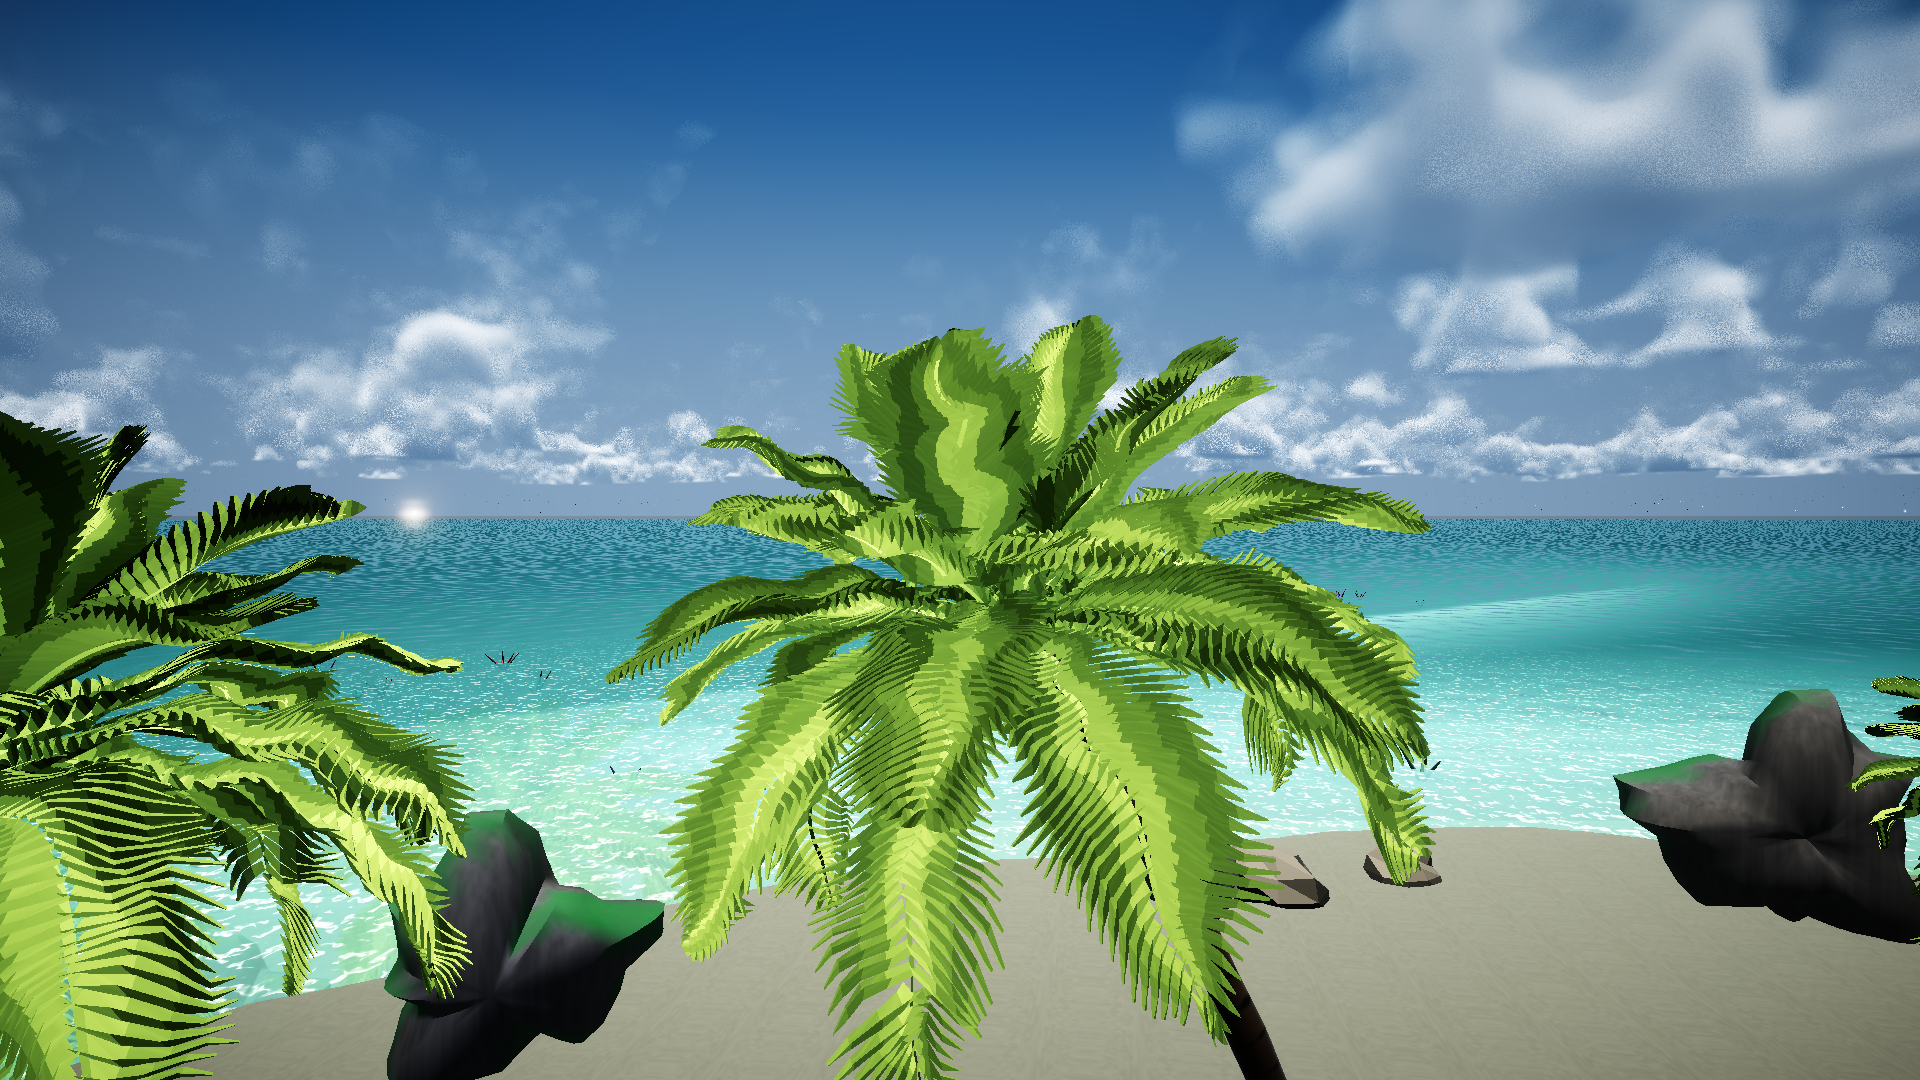
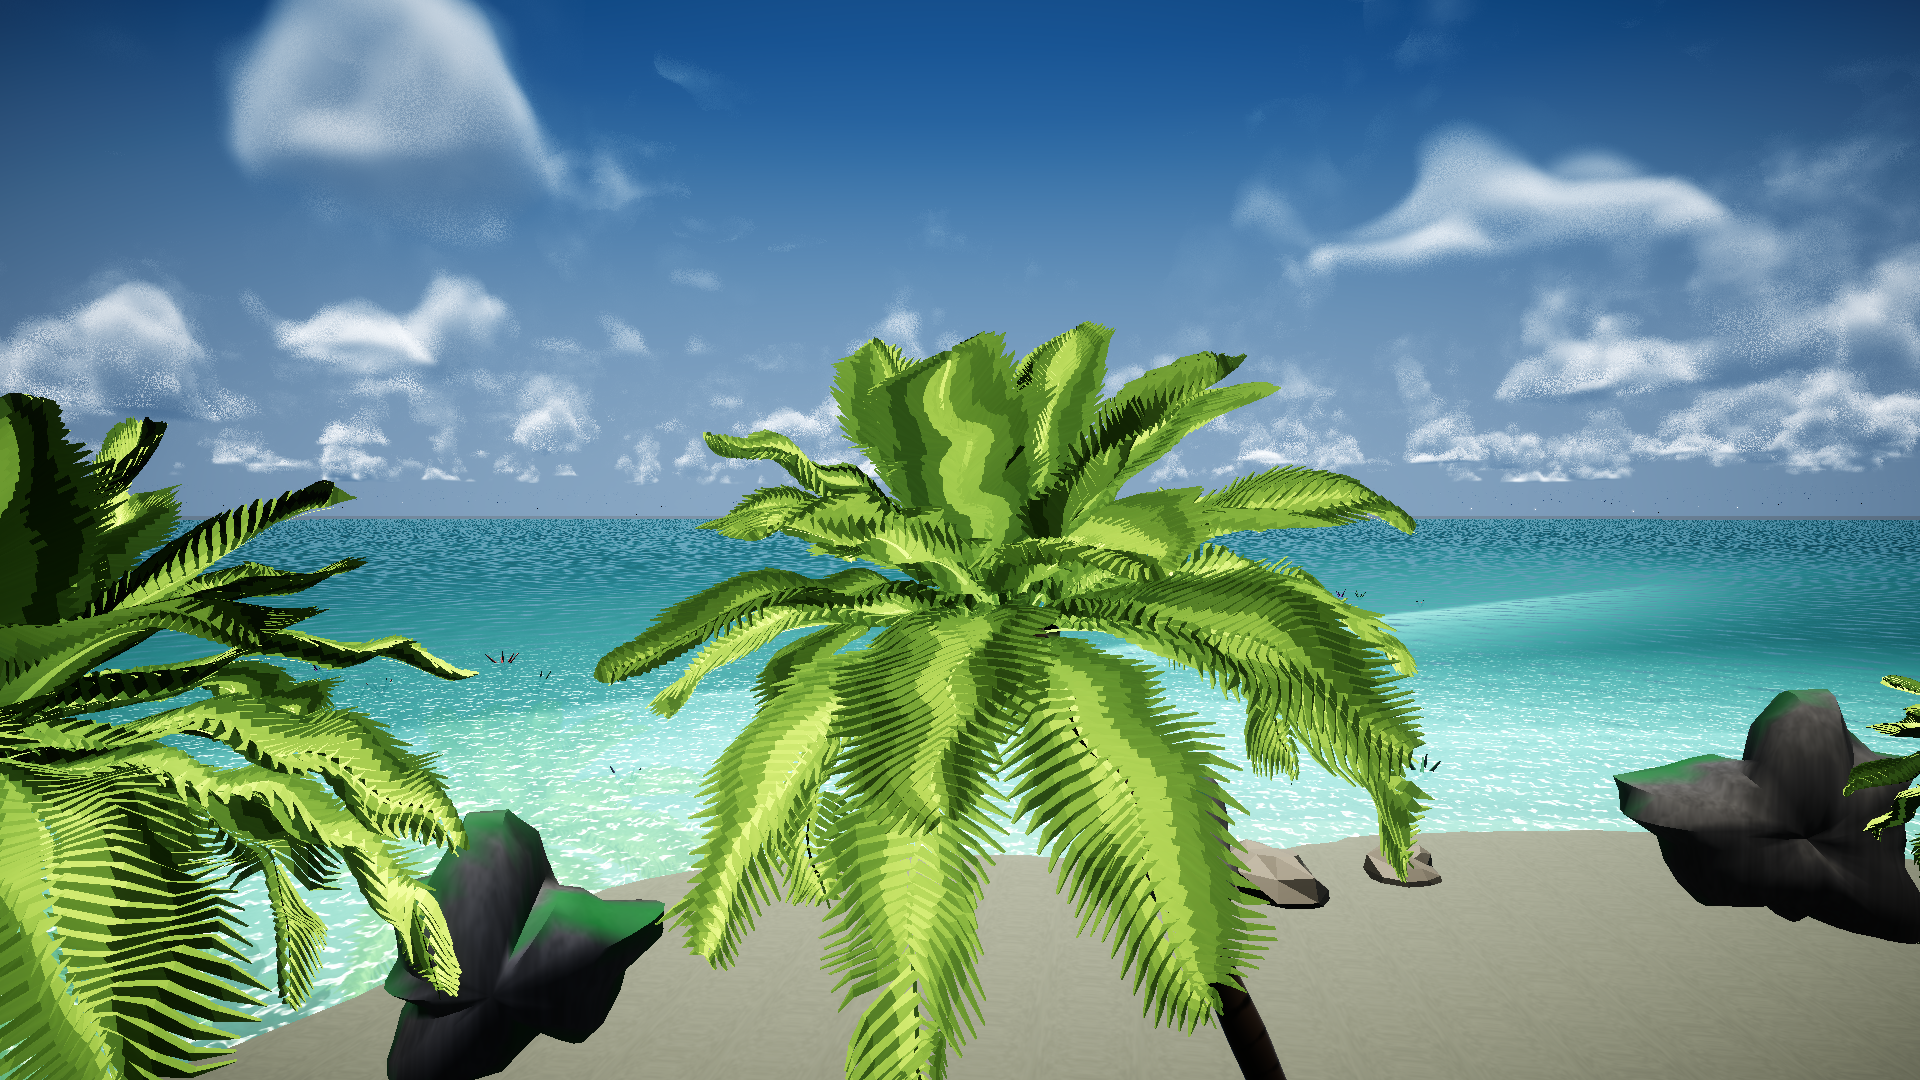
feat(R88): 叶脉贴图 512->1024(近看不糊) + 叶脉对比减半(避免斑马纹); AGENTS 补 R86 里程碑. ①棕榈贴图 512->1024: 近看更清晰 ②但1024下原叶脉幅度读成斑马纹 => rib/vein/mott 幅度减半(0.06/0.05/0.10 -> 0.030/0.025/0.055),  clamp 下限 0.86->0.90 ③结论: 棕榈的'塑料感/条纹'主要来自**几何**(叶片卡片), 贴图层面已到顶 ④AGENTS 补 R86 域边界修复里程碑(台阶比1.80->0.38) ⑤Islet 128.3/51.4/123.0/近黑3.72/

diff --git a/Assets/Editor/FrondTextureGen.cs b/Assets/Editor/FrondTextureGen.cs
@@ -18,7 +18,7 @@ namespace WaterProject.EditorTools
 {
     public static class FrondTextureGen
     {
-        const int W = 512, H = 512;
+        const int W = 1024, H = 1024;   // R88: 512->1024（近看 512 糊成塑料）
         const string OutDir  = "Assets/Art/Textures/Islet";
         const string OutPath = OutDir + "/Islet_FrondDetail_Proc.png";
 
@@ -69,8 +69,8 @@ namespace WaterProject.EditorTools
                     float mott = Fbm(u * 4f, v * 4f) * 0.62f + Fbm(u * 13f, v * 13f) * 0.38f;
 
                     // 只做**乘法变暗**（≤1.0）：超过 1 会被 8 位贴图裁掉，反而制造硬斑
-                    float d = 0.86f + 0.10f * mott + 0.06f * rib + 0.05f * vein;
-                    d = Mathf.Clamp(d, 0.86f, 1.0f);
+                    float d = 0.90f + 0.055f * mott + 0.030f * rib + 0.025f * vein;   // R88: 1024 下原幅度读成斑马纹
+                    d = Mathf.Clamp(d, 0.90f, 1.0f);
                     byte c = (byte)Mathf.Clamp(Mathf.RoundToInt(d * 255f), 0, 255);
                     px[y * W + x] = new Color32(c, c, c, 255);
                 }

diff --git a/AGENTS.md b/AGENTS.md
@@ -120,7 +120,7 @@ python Tools/Video/segment_report.py --start 3000 --end 3450 --region sky
 | **R45** | **一轮三小件**（R41 B 组收尾） | ✅ ①沙滩颗粒复用 `Style/207`（7/10"颗粒感明显"）②云缘细节侵蚀 0.22→0.38（7/10"边缘碎化丝絮感"）③瀑布底水雾粒子（7→8/10，下轮可加密 rate 55→90）；**落空记档**：Ocean 圆润岩 `swapped=0`——OceanScene **没有**独立岩石渲染器（审计看到的"多面体岩"是地形/崖一体件）⇒ 圆润化=重建崖网格，归下一轮大件 |
 | **R46** | **口径错位复核**（用户指令"错位需要先修改"） | ✅ 查原片帧确认参考 S0/f1500 都是**俯视水面**（推翻 `Style/207` 注释里的"天空55%低角度"）→ 新增 6 条可逆机位档 `Tools/R46/90~92b`；**同口径重拍后 Islet/FFT 分数不回升**（Islet SSIM 0.406、对比 50.8 vs 参考 51.2 已对齐；FFT SSIM **0.017** 结构不重合）⇒ **R41 的"错位占主因"被推翻，掉分=真内容缺失**；顺带暴露 4 个平视看不见的硬缺陷：①Islet 水面域边界黑楔 ②**全画面水面 sparkle 白噪点（全局）** ③沙洲俯视呈"重复扇贝纹"（R45 沙粒反噬）④FFT 中心竖缝+横向刷痕。另：R42~R45 四份薄报告已按纪律补齐四件套（含"口径缺口"自述） |
 | **R47** | **四件合一**（用户指令：4 个缺陷融成一步） | ✅ ①**水面白点 −64.3%**（同会话 A/B：26.75→9.55/1000px，亮度对比各 −1%）；定位过程**先证伪 Sparkle**（全关逐位相同）→ 逐个排除 → 真凶=`Water_Lagoon` 碎闪 `_GlitterPow=420` 亚像素走样 → 修法=**高光 LOD**（远处 420→80 加宽+距离淡出 18/75）②`Beach_Sand` 加沙粒距离 LOD（细粒 15m 外归零+25cm 粗斑驳），但 **Islet 沙洲是 Terrain 图层贴图，不走该 shader ⇒ 本场景未覆盖** ③**FFT 竖缝修掉**：`FFTOcean.compute` GradJacob 用 clamp 边界 → 改环绕差分，尖峰 4.91→**2.00** ④礁石 26+珊瑚 14 已生成可见（**IsletScene 无碰撞体→射线打点全落空，改用 Terrain.SampleHeight**），但石头是黑点、珊瑚是彩点，**未到参考形态**；⚠ 顺带发现白点消失后泻湖**露出一条竖缝**（5.29@443） |
-| **R60–R62** | **Ocean/Islet 观感修复 + 验收脚本** | ✅ ①Ocean 云量 0.34→0.05（1080p 下 0.34 是灰蓝硬块，比没云更脏）②Ocean 礁石 `_BaseColor` 0.085→0.26（原渲成纯黑洞，现出明暗分面，近黑 3.28%→2.89%）③**Ocean 天顶提亮**：改材质 `_ZenithColor` **无效**（DayNightCycle 每帧覆盖）→ 改**场景内曲线** skyZenith/skyHorizon 白天段 ×1.35：顶部15% 52→**81**、全画面 108→**131** ④Ocean 湿沙 `_WetColor` 0.15→0.17：近黑 3.47%→**0.70%** ⑤**新增 `Tools/verify/verify_scenes.ps1`**：六场景一键（开场景→Play→冻结→Seq/95 离屏采集→**校验 mtime 防旧帧**→量测→突变>35% 报警），基线存 `Tools/verify/baseline.json` ⑥六场景实测：Main105/Ocean132/Pond54/Pool190/Islet97/FFT127 ⑦遗留：Ocean 远处 `OceanHeadland_far` 是灰板（内容级）；Islet 默认机位那块黑崖=**地形背光**（改岩石材质无效，属构图选择）
+| **R86** | **域边界硬边修复（跟踪 10 轮）** | ✅ 真因=`IsletTerrain.RimFalloff=46f`（46m 内把地形从 −3 压到 −7.5，俯视只占几十像素 ⇒ 水深跳 4.5m）。改 **150f** + 重烘地形 → 锁线实测台阶比 **1.80 → 0.38**（目标 <0.8）。中途改成"平方衰减"退回 1.96 ⇒ **教训：边界过渡必须线性摊开足够长**。代价：`Islet_SandWet` 图层占比 96.8%（外圈海底偏湿沙色） || **R60–R62** | **Ocean/Islet 观感修复 + 验收脚本** | ✅ ①Ocean 云量 0.34→0.05（1080p 下 0.34 是灰蓝硬块，比没云更脏）②Ocean 礁石 `_BaseColor` 0.085→0.26（原渲成纯黑洞，现出明暗分面，近黑 3.28%→2.89%）③**Ocean 天顶提亮**：改材质 `_ZenithColor` **无效**（DayNightCycle 每帧覆盖）→ 改**场景内曲线** skyZenith/skyHorizon 白天段 ×1.35：顶部15% 52→**81**、全画面 108→**131** ④Ocean 湿沙 `_WetColor` 0.15→0.17：近黑 3.47%→**0.70%** ⑤**新增 `Tools/verify/verify_scenes.ps1`**：六场景一键（开场景→Play→冻结→Seq/95 离屏采集→**校验 mtime 防旧帧**→量测→突变>35% 报警），基线存 `Tools/verify/baseline.json` ⑥六场景实测：Main105/Ocean132/Pond54/Pool190/Islet97/FFT127 ⑦遗留：Ocean 远处 `OceanHeadland_far` 是灰板（内容级）；Islet 默认机位那块黑崖=**地形背光**（改岩石材质无效，属构图选择）
 | **R56–R59** | **场景画质 / 采集口径 / 域边界**（用户授权连续推进） | ✅ ①**画面"又脏又暗"根因=两个配置 bug**：Islet 调色档停在极暗档(曝光−1.09/对比41) + Ocean 相机 `renderPostProcessing=False`（调色档从没生效）；修完 Islet 亮度 62→100、Ocean 108→118 ②**采集口径**：`Ocean/85` 在失焦时静默失败、切场景后常返回**旧帧**（MD5 不同但像素统计雷同）⇒ 统一改用 `Seq/95` 离屏阻塞 1080p，六场景基线全正常（Main103/Ocean107/Pond54/Pool190/Islet107/FFT127）③**事故与回滚**：`588 全场景开后处理` 把 Pond(+2.8)/Main(+0.89) 高曝光档打开→整屏白(252)，已用 `R57/92` 关回基线并保存 ④域边界硬边：按"沙底返色淡出 `_EdgeFade`"改，目视变淡但**严格A/B像素差0.00%（参数未生效）**⇒ 不记为已修 |
 | **R48** | **四件合一（二）** | ✅ ①**结案纠错**：R47 说的"泻湖竖缝"是**假的**——只测纯水面带 seam=2.75（正常），5.29 是**沙洲边缘**被量具误判（粒度剖面是宽峰不是 1px 尖线）；量具教训：seam 只能测同质区域 ②沙洲绗缝真因=**贴图里的低频 dune（每张只有 1 个大包）+ 平铺**，放大 tile 反而 +14%；重生成沙贴图（dune 0.05→0.008/0.10→0.015）后**摩尔纹 −19.3%**、绗缝视觉消失 ③礁石换 `Islet_ReefRock`（灰褐 URP/Lit，不再纯黑）+ 珊瑚改**程序化枝杈网格**（不再是球堆）④碎闪接入 **fwidth 解析抗锯齿**（按像素足迹而非距离），但本轮同时改了沙洲/材质，**硬度指标无法单独归因**，待下轮纯净 A/B |
 
